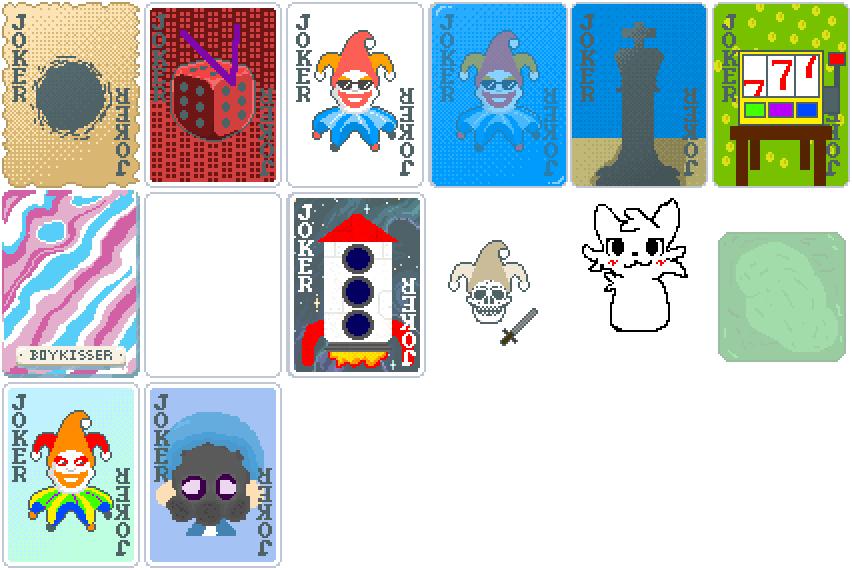
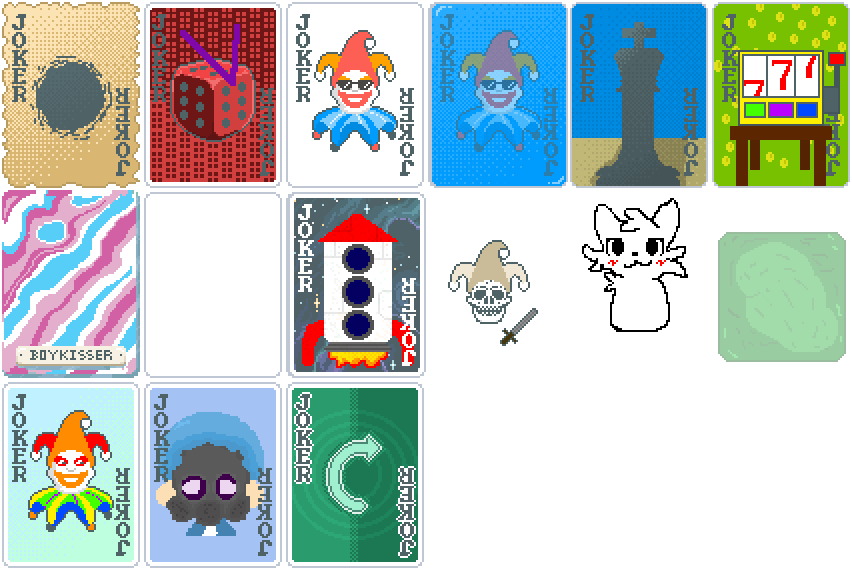
1.0.7

Changed region(s): [[0.3357, 0.6561, 0.5188, 1.0]]

diff --git a/README.md b/README.md
@@ -51,3 +51,13 @@ Reworked
 -A few other things i forgor
 
 fixed bugs
+
+## 1.7
+
+Added 
+-Pivot when discarded destroy all jokers and give a new set of jokers
+-Blueprint support for most jokers
+
+Reworked
+-Polychrome to the right's text
+-Gelatinous cube
